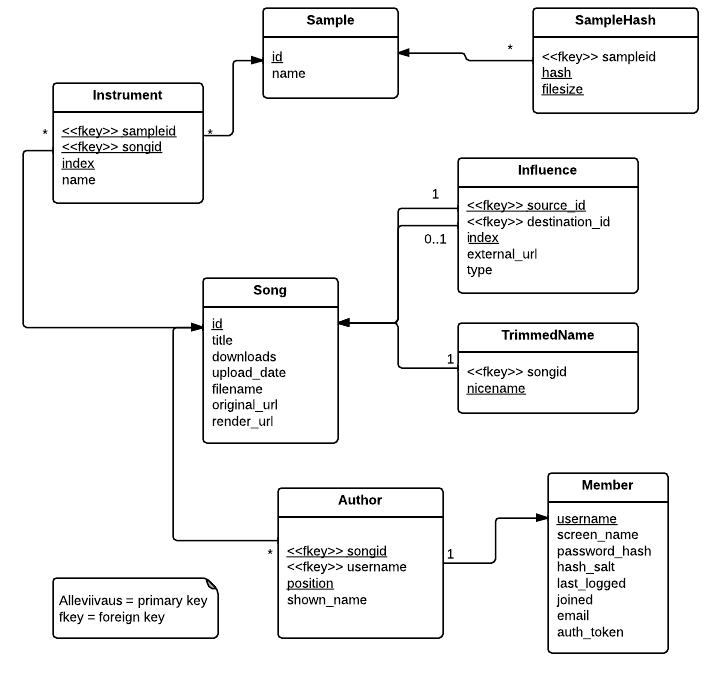
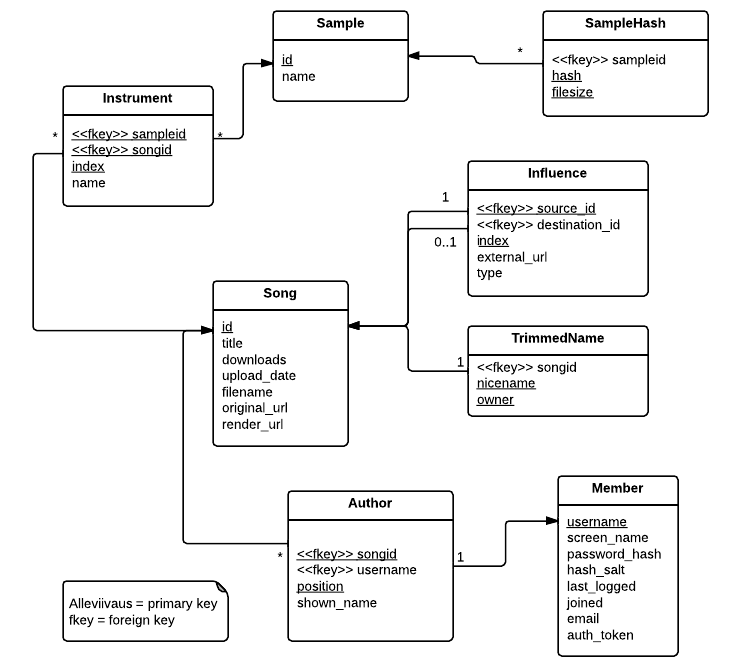
update database docs

Changed region(s): [[0.0305, 0.0, 0.9764, 0.6627], [0.061, 0.7229, 0.7018, 0.9639], [0.7323, 0.6928, 0.9459, 0.994]]

diff --git a/src/templates/song.html b/src/templates/song.html
@@ -16,7 +16,7 @@
 %>
 
 <h2>${song['title'] | h}</h2>
-<span>by <a href="/users/${owner | h}"> ${owner | h}</a></span>
+<span>uploaded by <a href="/users/${owner | h}"> ${owner | h}</a></span>
 <ul>
 <li>uploaded: ${song['upload_date'] | h}</li>
 <li><a href="${downloadurl}">${song['filename']}</a></li>

diff --git a/docs/tietokohteet.md b/docs/tietokohteet.md
@@ -48,6 +48,7 @@ Song on yksi järjestelmään ladattu kappale. Kappaleeseen liittyy yksi tai use
 |attribuutti	| arvojoukko 	| kuvailu
 |---------------|---------------|----------|
 | nicename		| varchar		| jonkin kappaleen siistitty nimi
+| owner			| varchar		| kappaleen omistajan käyttäjänimi
 
 Taulukko kappaleiden siistityille nimille, joita käytetään tunnisteena kappaleen URL:ssä. Tämä on käyttäjälle selkeämpää kuin pelkän numeromuotoisen tunnisteen näyttäminen. 
 

diff --git a/docs/tietokanta.md b/docs/tietokanta.md
@@ -41,7 +41,9 @@ CREATE TABLE ms.Author (
 
 CREATE TABLE ms.TrimmedName (
     songid          integer references ms.Song(id) NOT NULL,
-    nicename        varchar PRIMARY KEY
+    nicename        varchar NOT NULL,
+	owner			varchar NOT NULL,
+	PRIMARY KEY(nicename, owner)
 );
 
 -- either destination_id or external_url should be NULL
@@ -74,5 +76,4 @@ CREATE TABLE ms.SampleHash (
     filesize    integer NOT NULL,
     PRIMARY KEY(hash, filesize)
 );
-
 ```
